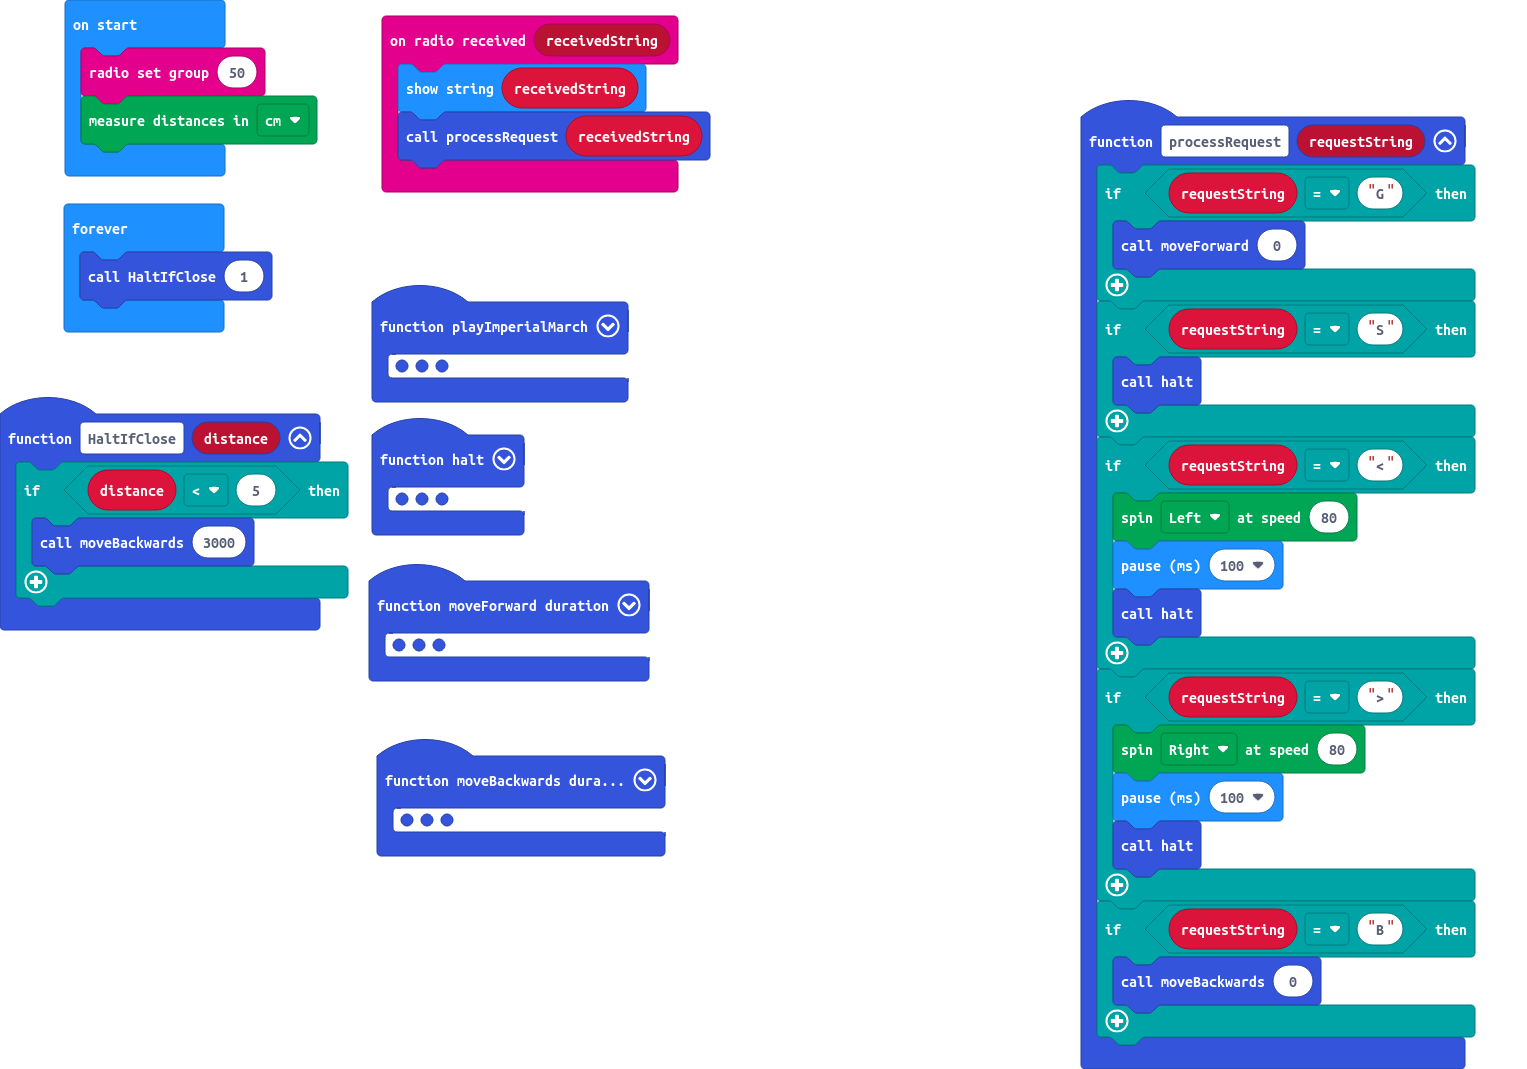
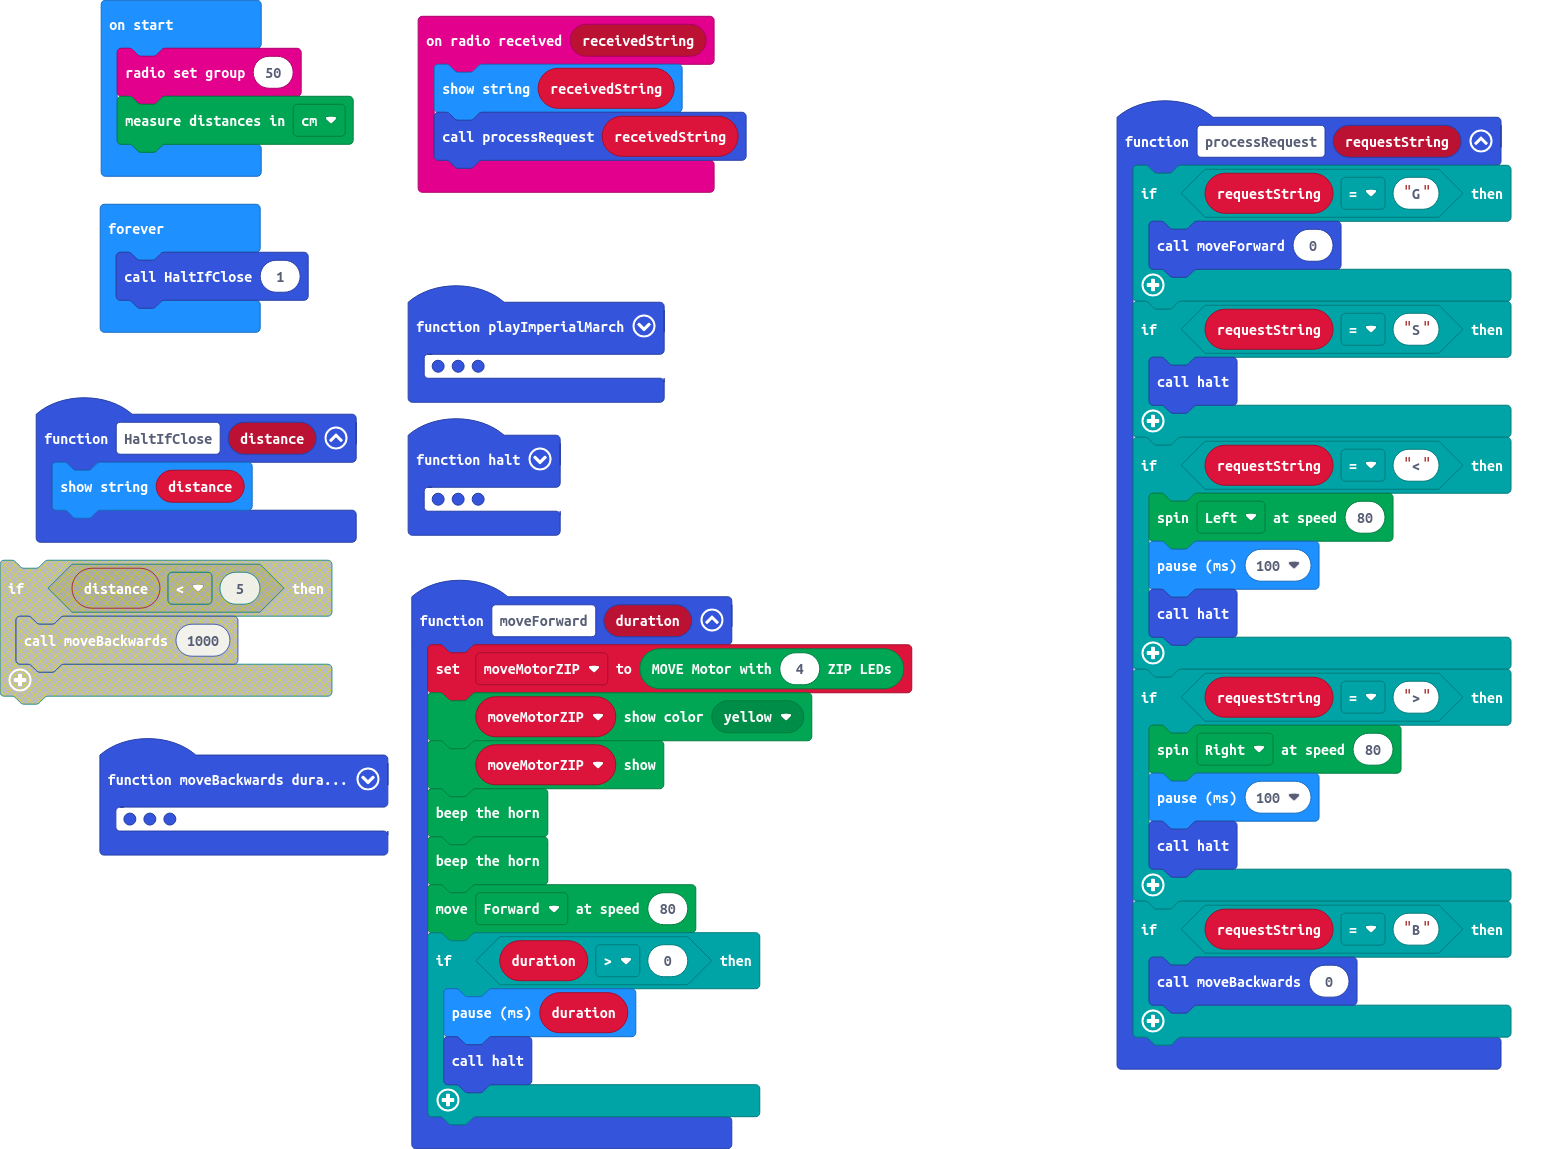
Updated to display the distance

diff --git a/main.ts b/main.ts
@@ -1,7 +1,5 @@
 function HaltIfClose (distance: number) {
-    if (distance < 5) {
-        moveBackwards(3000)
-    }
+    basic.showString("" + (distance))
 }
 function processRequest (requestString: string) {
     if (requestString == "G") {
